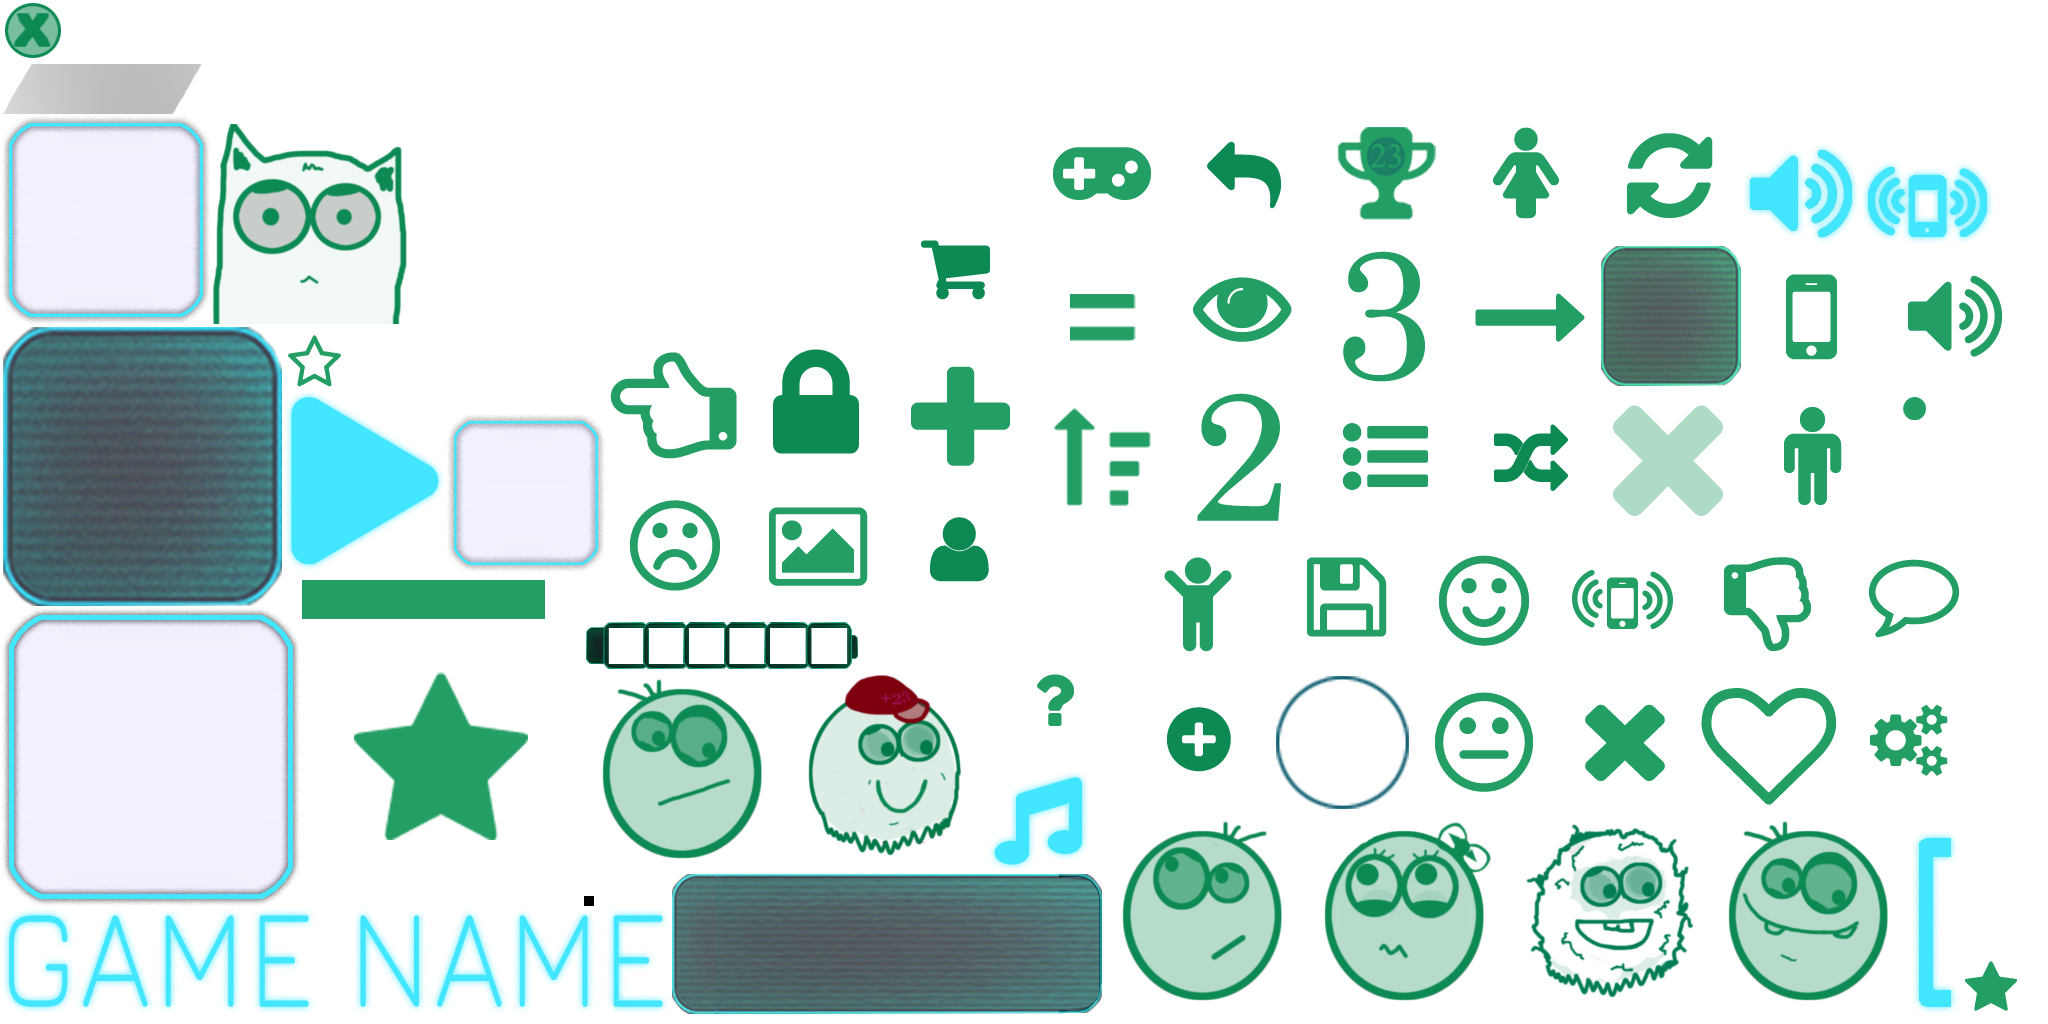
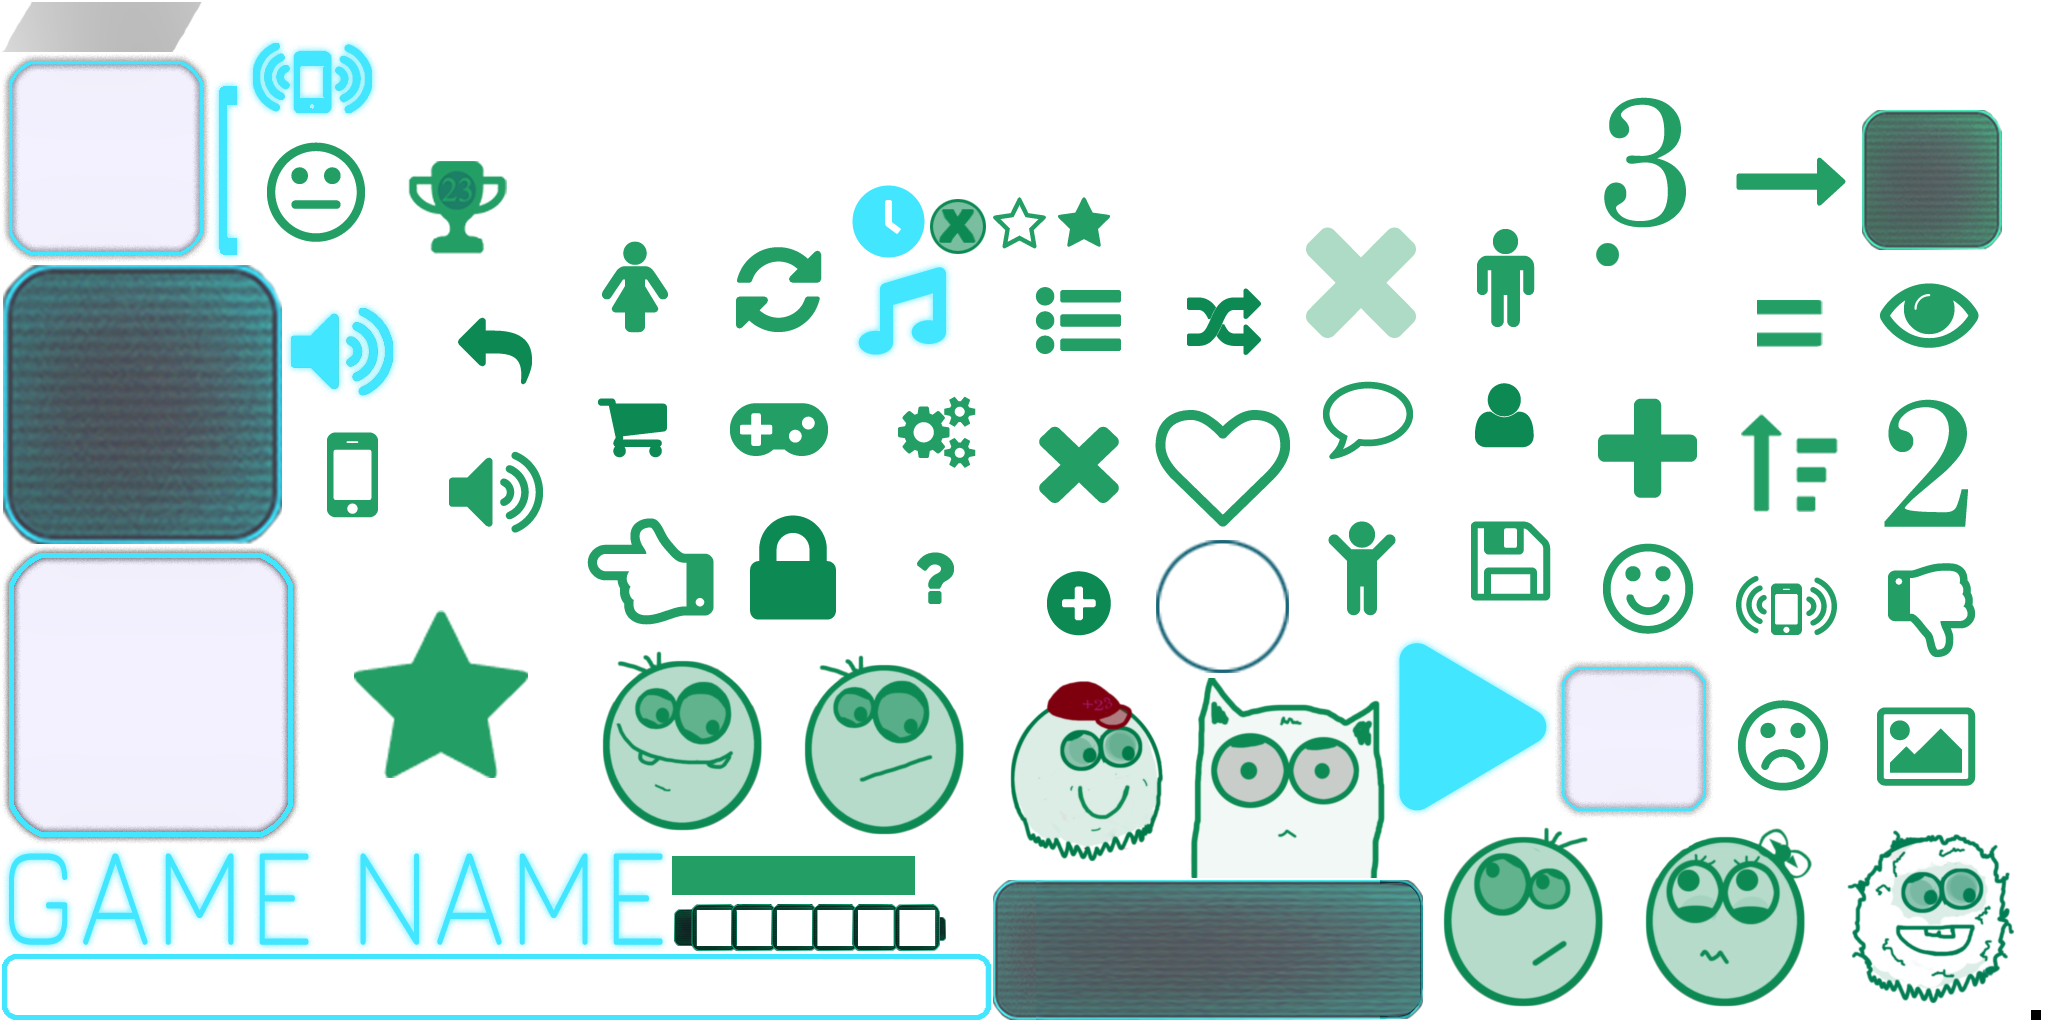
[FEATURE] add timer regions
- add increasing for timer

diff --git a/core/src/com/tapcon/game/screens/GamePlayScreen.kt b/core/src/com/tapcon/game/screens/GamePlayScreen.kt
@@ -10,6 +10,7 @@ import com.tapcon.game.Config
 import com.tapcon.game.actors.Background
 import com.tapcon.game.actors.game_play.Bracket
 import com.tapcon.game.actors.game_play.CellIcon
+import com.tapcon.game.actors.game_play.GameTimer
 import com.tapcon.game.actors.game_play.HeadIcon
 import com.tapcon.game.data.Assets
 import com.tapcon.game.data.Descriptors
@@ -27,6 +28,7 @@ class GamePlayScreen(params: Map<ScreenManager.Param, Any>) : GameScreen(params)
     private val bracketLeft = Bracket(manager)
     private val bracketRight = Bracket(manager)
     private val headIcon = HeadIcon(manager)
+    private val timer = GameTimer(manager)
     private val iconsGroup = Group()
 
     private val rowCount = 3
@@ -45,24 +47,27 @@ class GamePlayScreen(params: Map<ScreenManager.Param, Any>) : GameScreen(params)
 
     init {
         stageBackground.addActor(Background(manager))
-        initActors()
+        initActorsPositions()
 
         stage.apply {
             addActor(bracketLeft)
             addActor(bracketRight)
+            addActor(timer)
             addActor(headIcon)
             addActor(iconsGroup)
         }
-        setIconsPosition()
+        initIconsMatrix()
         setIconsGroupPosition()
 
         numMainIcon = setNewActiveIcon()// Test
         setMainIcon(numMainIcon)
 
+        startControlGameOver()
+
         Gdx.input.inputProcessor = stage
     }
 
-    private fun setIconsPosition() {
+    private fun initIconsMatrix() {
         var x = 0f
         var y = 0f
 
@@ -79,6 +84,7 @@ class GamePlayScreen(params: Map<ScreenManager.Param, Any>) : GameScreen(params)
                 if (element.isMain) {
                     reInitActors()
                     setMainIcon()
+                    timer.increaseTimer()
                 }
                 return@addClickListener true
             }
@@ -135,18 +141,21 @@ class GamePlayScreen(params: Map<ScreenManager.Param, Any>) : GameScreen(params)
         iconsGroup.setPosition(x, y)
     }
 
-    private fun initActors() {
+    private fun initActorsPositions() {
+        headIcon.setSize(bracketLeft.height, bracketLeft.height)
+
         val headX = (Config.WIDTH_GAME - headIcon.width) / 2
         val headY = Config.HEIGHT_GAME - bracketLeft.height - 50f
         val padding = 100f
 
         bracketLeft.setPosition(headX - padding, headY)
-
         headIcon.setPosition(headX, headY)
-        headIcon.setSize(bracketLeft.height, bracketLeft.height)
+
 
         bracketRight.scaleX = -1f
         bracketRight.setPosition(headIcon.tailX + padding, headY)
+
+        timer.setPosition((Config.WIDTH_GAME - timer.width) / 2, headY - timer.height - 50)
     }
 
     private fun addClickListener(actor: Actor, function: () -> Boolean) {
@@ -158,6 +167,13 @@ class GamePlayScreen(params: Map<ScreenManager.Param, Any>) : GameScreen(params)
                 return super.touchDown(event, x, y, pointer, button)
             }
         })
+    }
+
+    private fun startControlGameOver() {
+        timer.onTimerExpired {
+            ScreenManager.setScreen(ScreenManager.Screens.GAME_OVER)
+            AudioManager.stopAll()
+        }
     }
 
     override fun hide() {

diff --git a/core/src/com/tapcon/game/actors/game_play/GameTimer.kt b/core/src/com/tapcon/game/actors/game_play/GameTimer.kt
@@ -1,0 +1,89 @@
+package com.tapcon.game.actors.game_play
+
+import com.badlogic.gdx.assets.AssetManager
+import com.badlogic.gdx.graphics.g2d.Batch
+import com.badlogic.gdx.scenes.scene2d.actions.Actions
+import com.tapcon.game.api.Animated
+import com.tapcon.game.api.AnimationType
+import com.tapcon.game.api.GameActor
+import com.tapcon.game.data.Assets
+import com.tapcon.game.data.Descriptors
+import java.util.*
+import kotlin.concurrent.scheduleAtFixedRate
+
+class GameTimer(manager: AssetManager) : GameActor(), Animated {
+    private val atlas = manager.get(Descriptors.gameInterface)
+    private val borderRegion = atlas.findRegion(Assets.InterfaceAtlas.TIME_BORDER)
+    private val square = manager.get(Descriptors.progressBar).findRegion(Assets.ProgressAtlas.SQUARE)
+    private var progressStep = 20
+    private var timePercent = 100
+    private var timerPeriod = 100L
+    private var timerStep = 10
+
+    private var onTimerExpired: (() -> Any)? = null
+
+    private val timer: Timer = Timer()
+
+    init {
+        width = borderRegion.originalWidth.toFloat()
+        height = borderRegion.originalHeight.toFloat()
+
+        setTimer()
+    }
+
+    private fun setTimer() {
+        timer.scheduleAtFixedRate(0L, timerPeriod) {
+            if (timePercent > 0) timePercent--
+            else {
+                timer.cancel()
+                onTimerExpired?.invoke()
+            }
+        }
+    }
+
+    fun increaseTimer(percent: Int = timerStep) {
+        timePercent = if (timePercent + percent > 100) 100 else timePercent + percent
+    }
+
+    fun decreaseTimer(percent: Int = timerStep) {
+        timePercent = if (timePercent - percent < 0) 0 else timePercent - percent
+    }
+
+    override fun draw(batch: Batch?, parentAlpha: Float) {
+        color.a = parentAlpha
+        batch!!.color = color
+
+        batch.draw(borderRegion, x, y, originX, originY, width, height, scaleX, scaleY, rotation)
+        drawProgress(batch)
+    }
+
+    private fun drawProgress(batch: Batch) {
+        var x = x + progressStep / 2
+        for (i in 0 until timePercent step 5) {
+            val width = square.originalWidth.toFloat()
+            val height = square.originalHeight.toFloat()
+            batch.draw(square, x, y + 10, originX, originY, width, height, scaleX, scaleY, rotation)
+            x += square.originalWidth.toFloat()
+        }
+    }
+
+    fun onTimerExpired(func: () -> Any){
+
+    }
+
+    override fun animate(type: AnimationType, runAfter: Runnable) {
+        val animDuration = 0.5f
+        val action = when (type) {
+            AnimationType.HIDE_FROM_SCENE -> Actions.alpha(0f, animDuration)
+            AnimationType.SHOW_ON_SCENE -> {
+                val color = color
+                setColor(color.r, color.g, color.b, 0f)
+                Actions.alpha(1f, animDuration)
+            }
+            else -> return
+        }
+        val run = Actions.run(runAfter)
+        val sequence = Actions.sequence(action, run)
+        addAction(sequence)
+    }
+}

diff --git a/core/src/com/tapcon/game/data/Assets.kt b/core/src/com/tapcon/game/data/Assets.kt
@@ -27,6 +27,8 @@ class Assets {
             const val GAME_NAME = "game_name"
             const val CELL = "cell"
             const val BRACKET = "bracket"
+            const val TIME_BORDER = "time_border"
+            const val TIME_ICON = "timer_icon"
         }
     }
 
